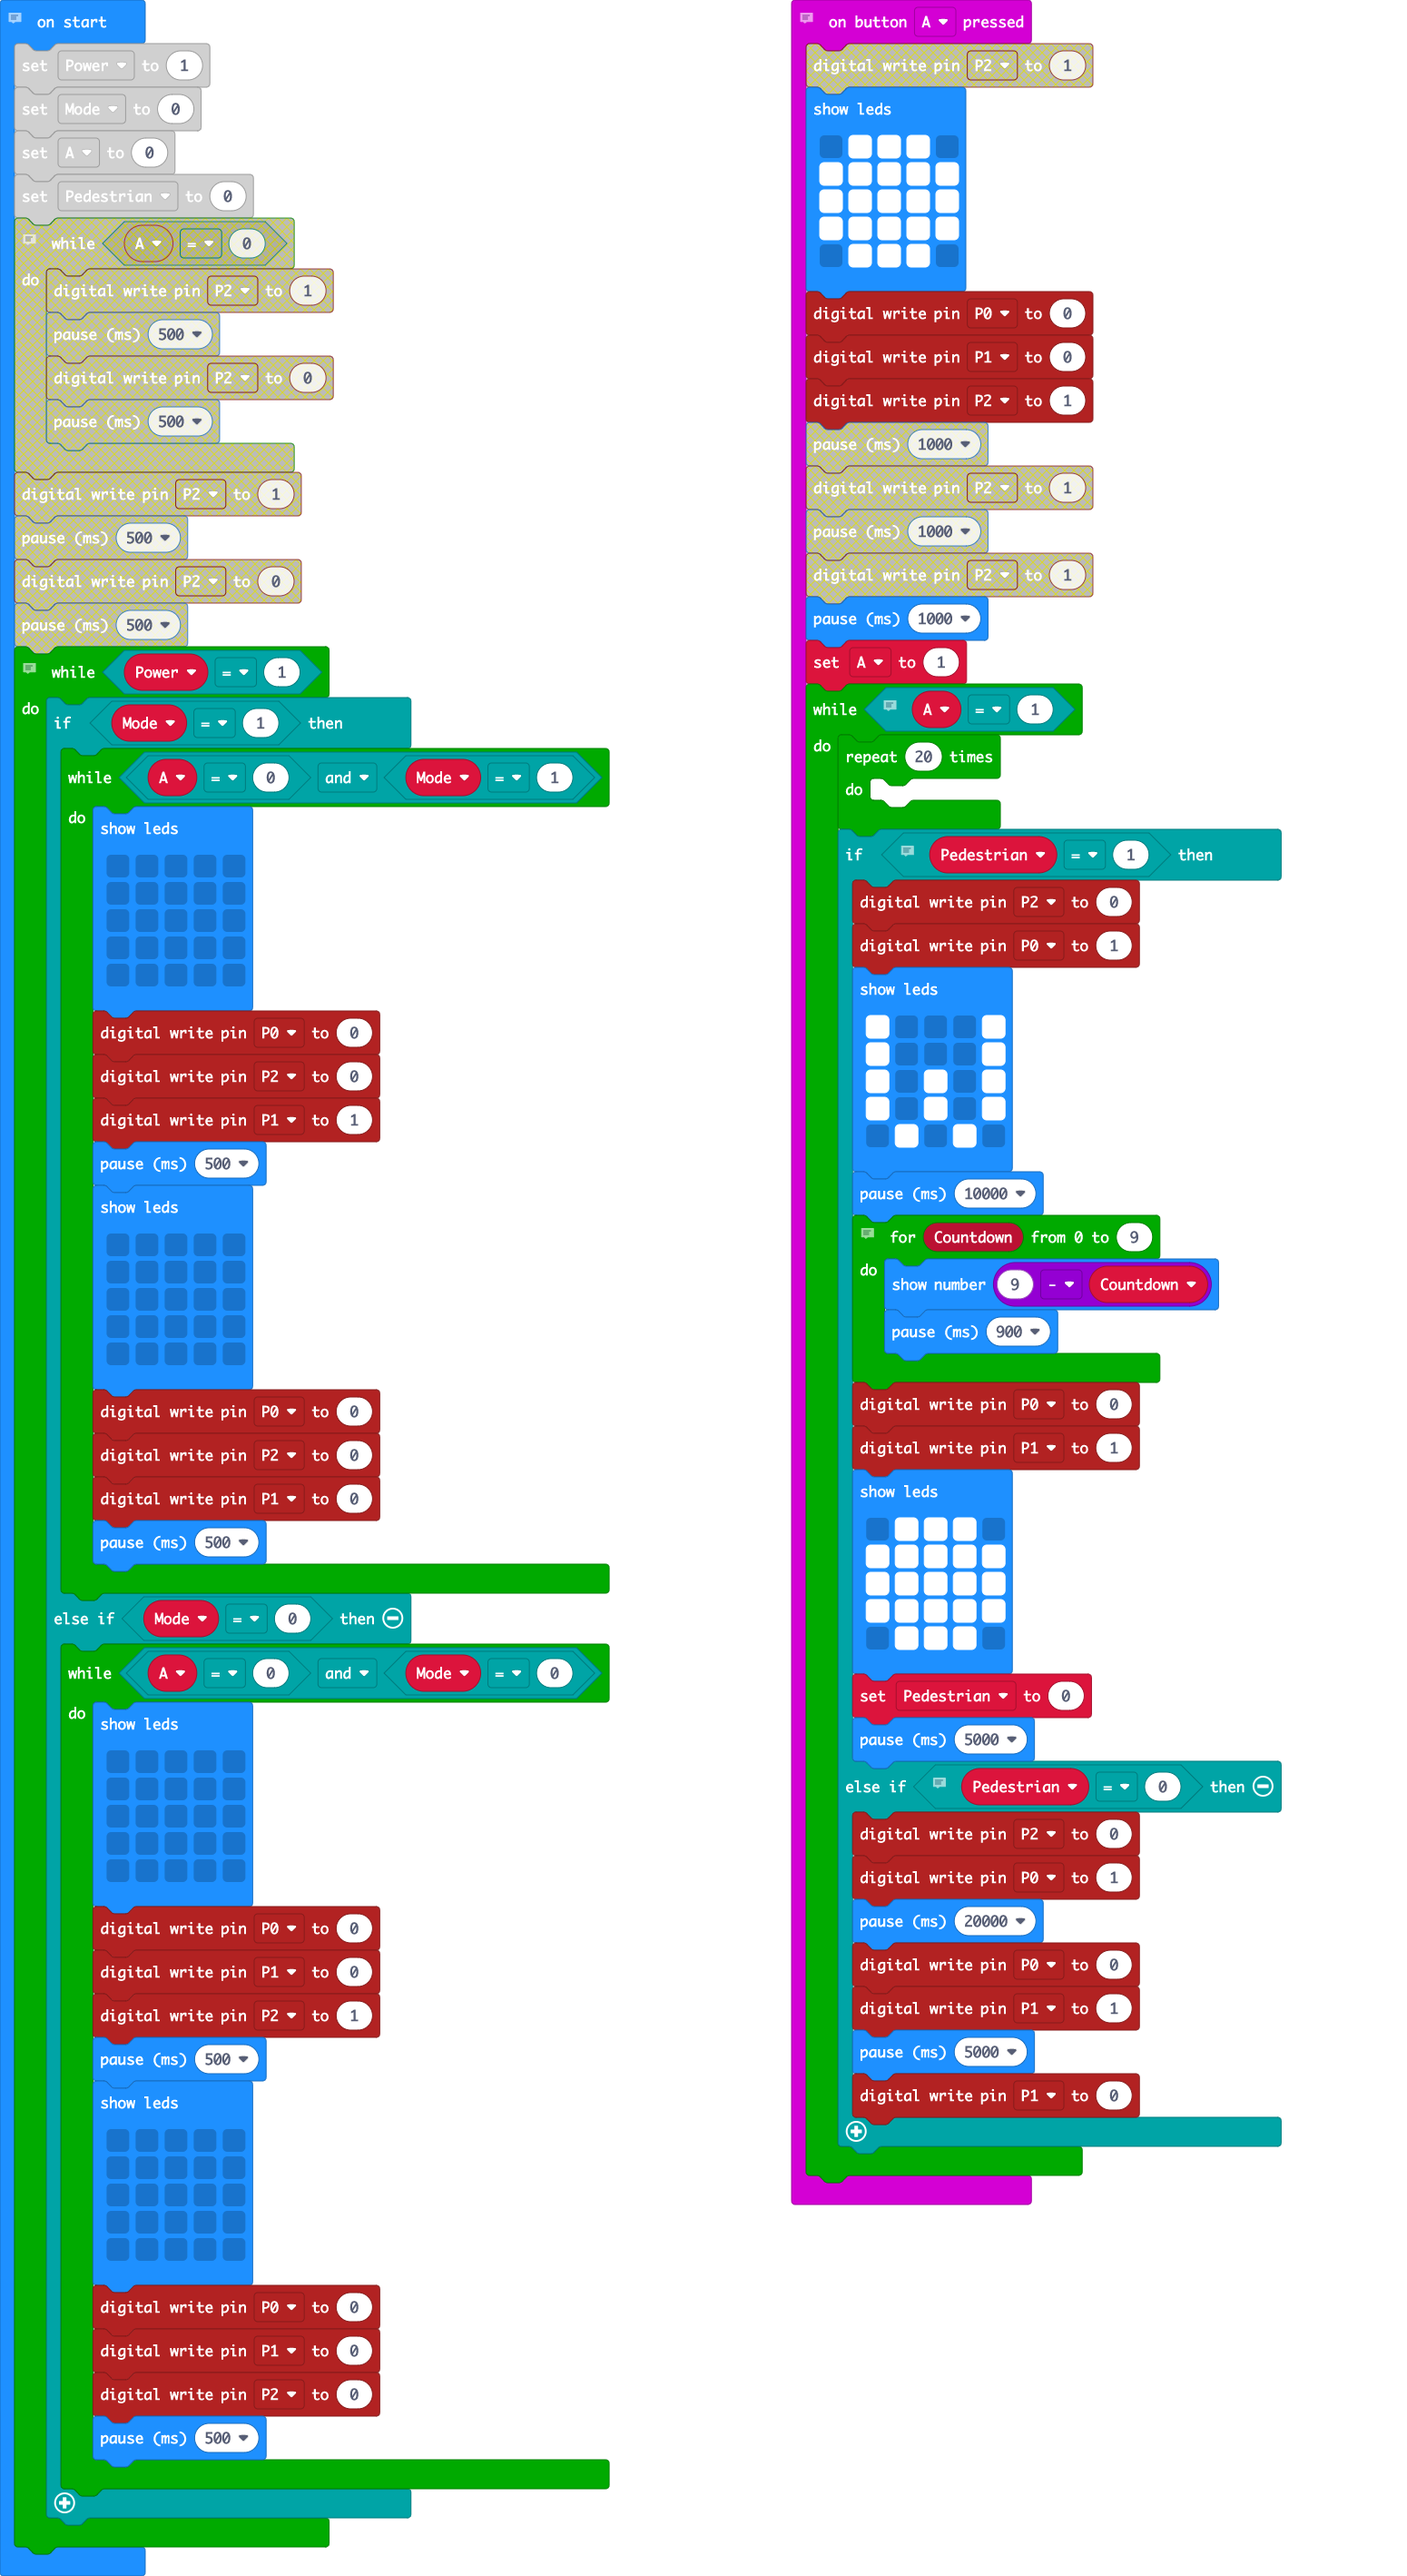
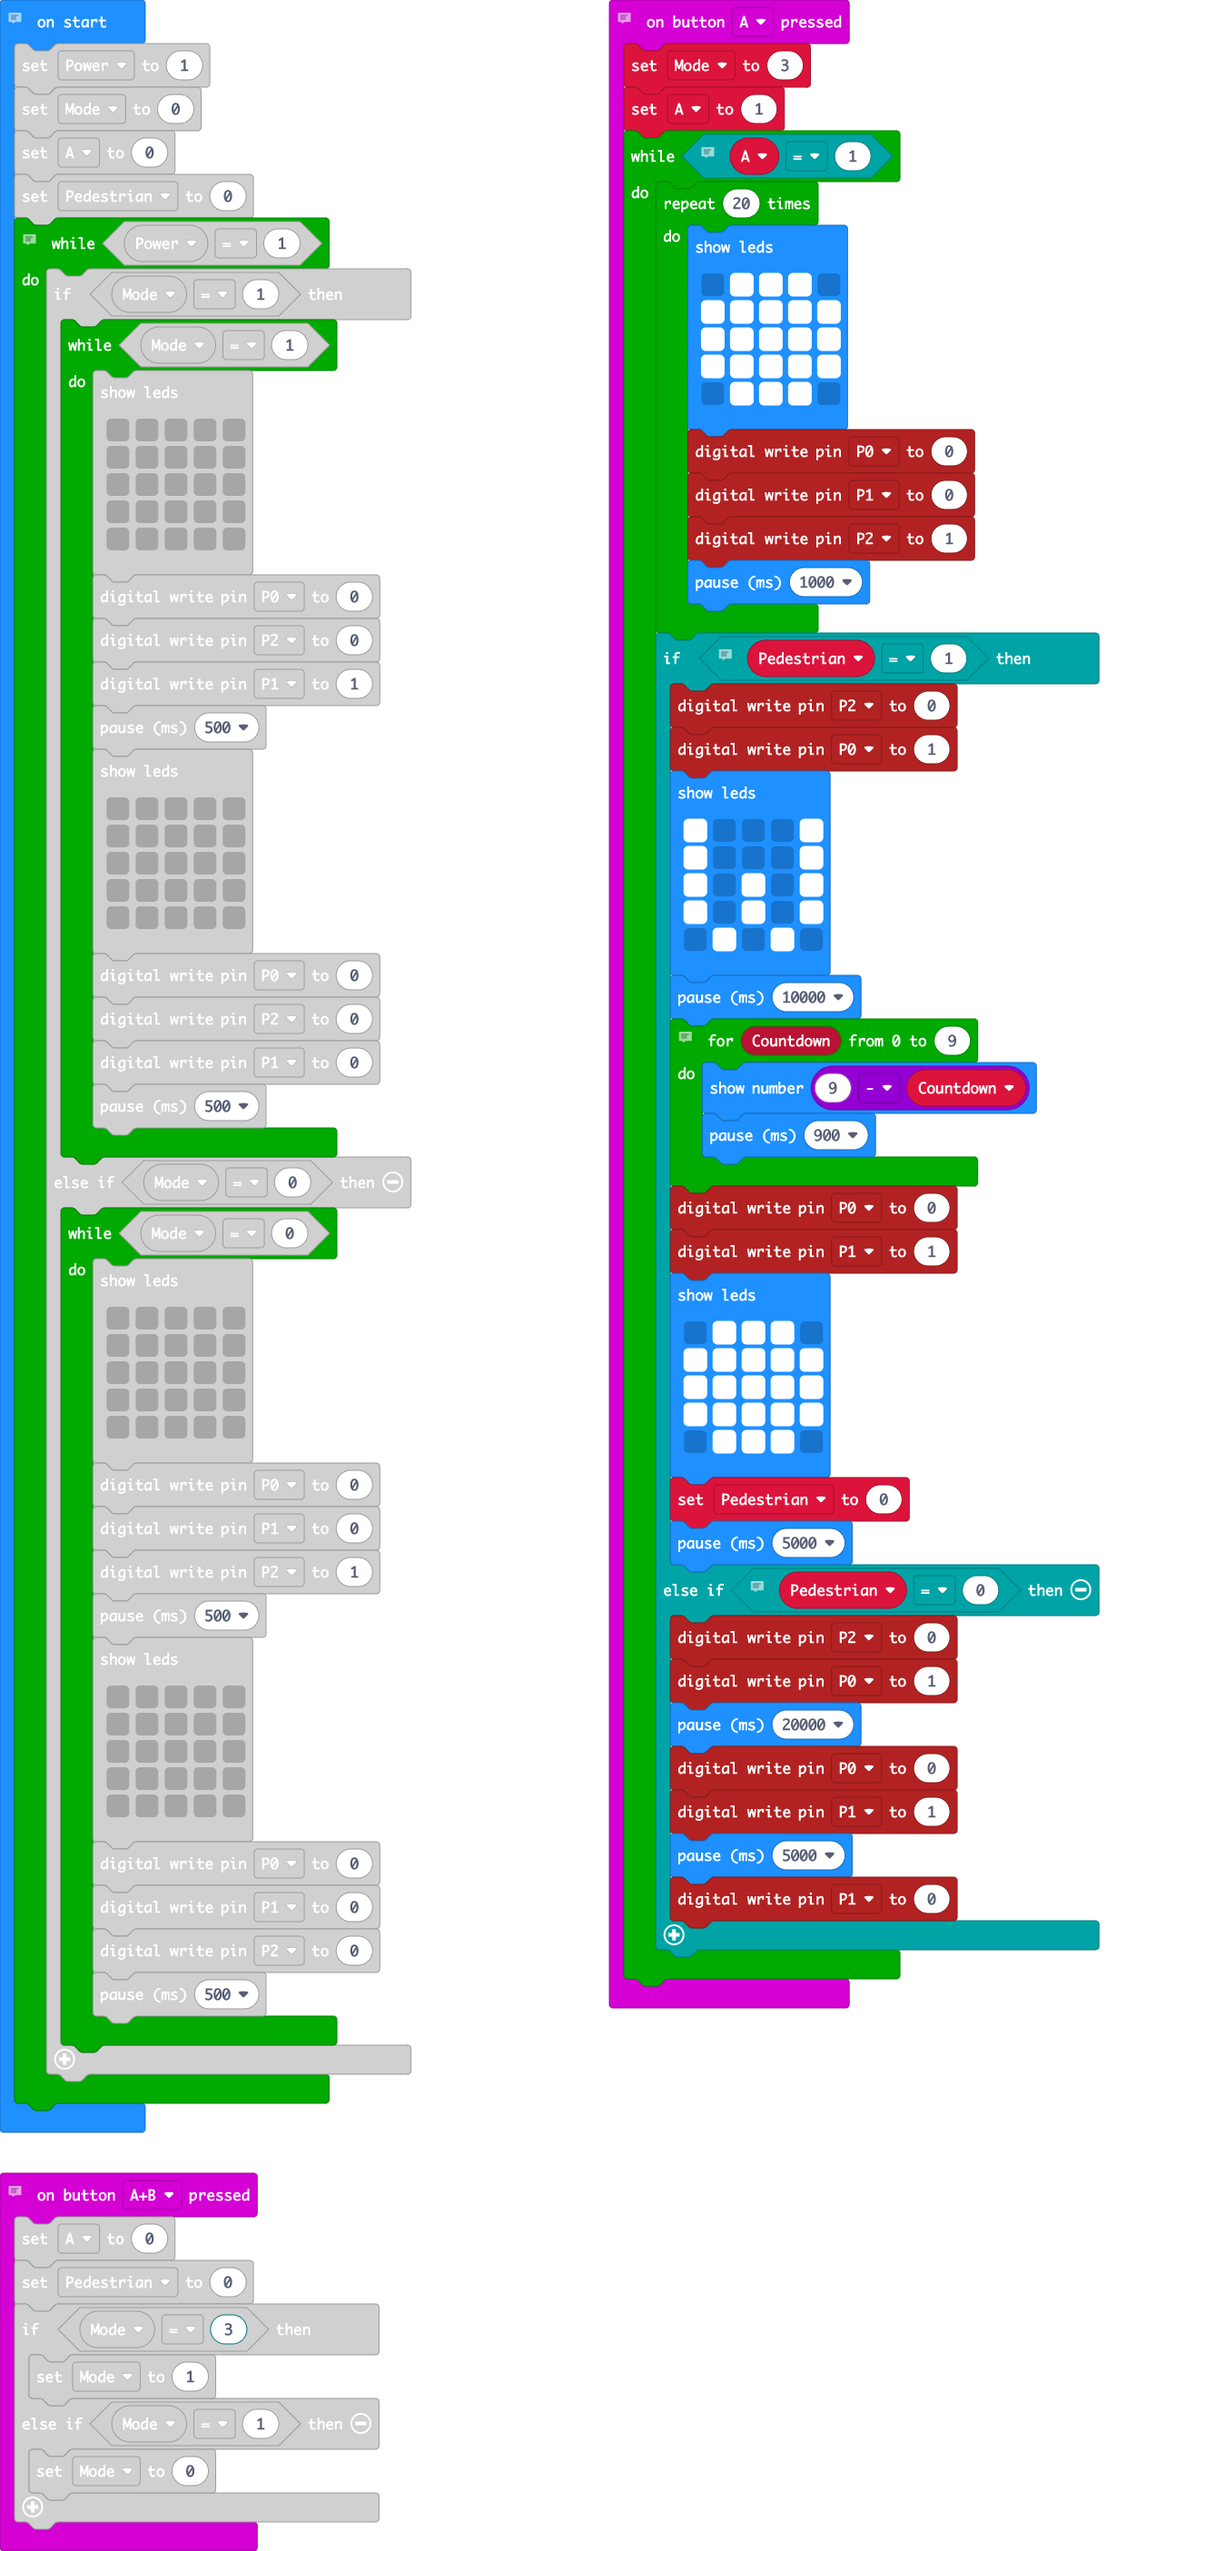
Update main.blocks, main.ts

diff --git a/main.ts b/main.ts
@@ -1,5 +1,6 @@
 // Once A is pressed the program begins.
 input.onButtonPressed(Button.A, function () {
+    Mode = 3
     A = 1
     // Restarts the program if uninterrupted.
     while (A == 1) {
@@ -60,7 +61,7 @@ input.onButtonPressed(Button.A, function () {
 input.onButtonPressed(Button.AB, function () {
     A = 0
     Pedestrian = 0
-    if (Mode == 0) {
+    if (Mode == 3) {
         Mode = 1
     } else if (Mode == 1) {
         Mode = 0
@@ -81,7 +82,7 @@ Pedestrian = 0
 // If A+B is pressed it goes to flashing red or flashing yellow depending on how many times A+B was pressed.
 while (Power == 1) {
     if (Mode == 1) {
-        while (A == 0 && Mode == 1) {
+        while (Mode == 1) {
             basic.showLeds(`
                 . . . . .
                 . . . . .
@@ -106,7 +107,7 @@ while (Power == 1) {
             basic.pause(500)
         }
     } else if (Mode == 0) {
-        while (A == 0 && Mode == 0) {
+        while (Mode == 0) {
             basic.showLeds(`
                 . . . . .
                 . . . . .
